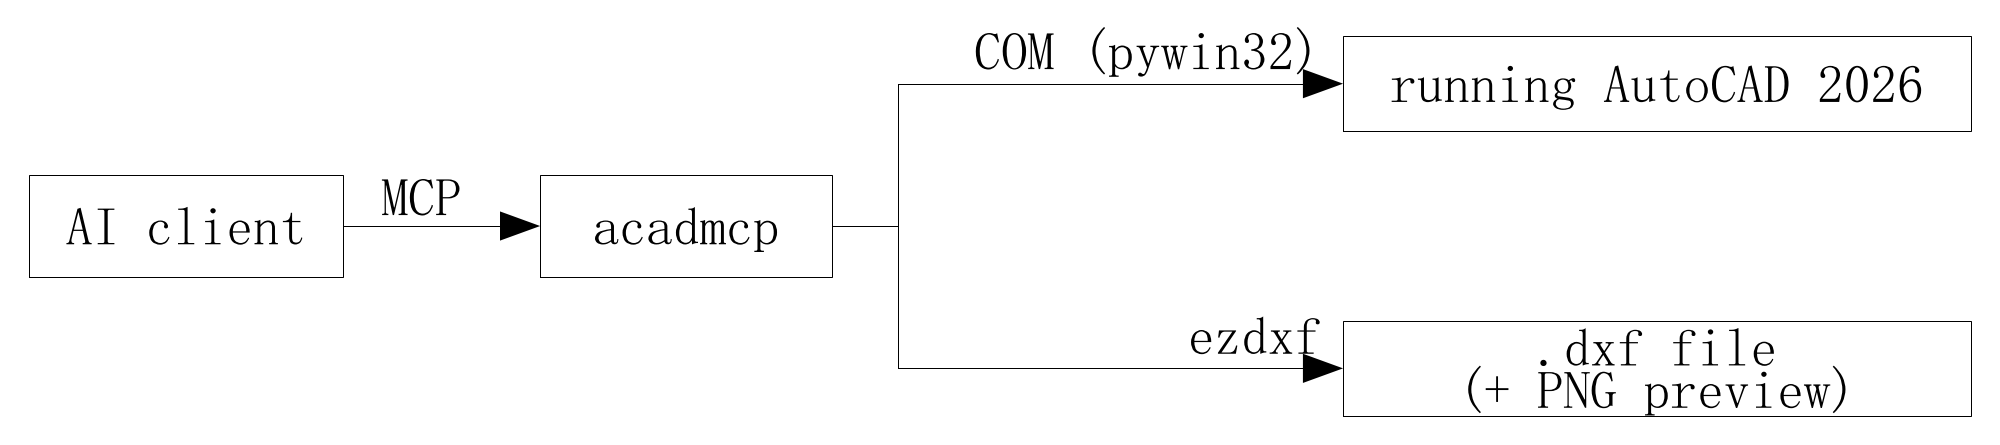
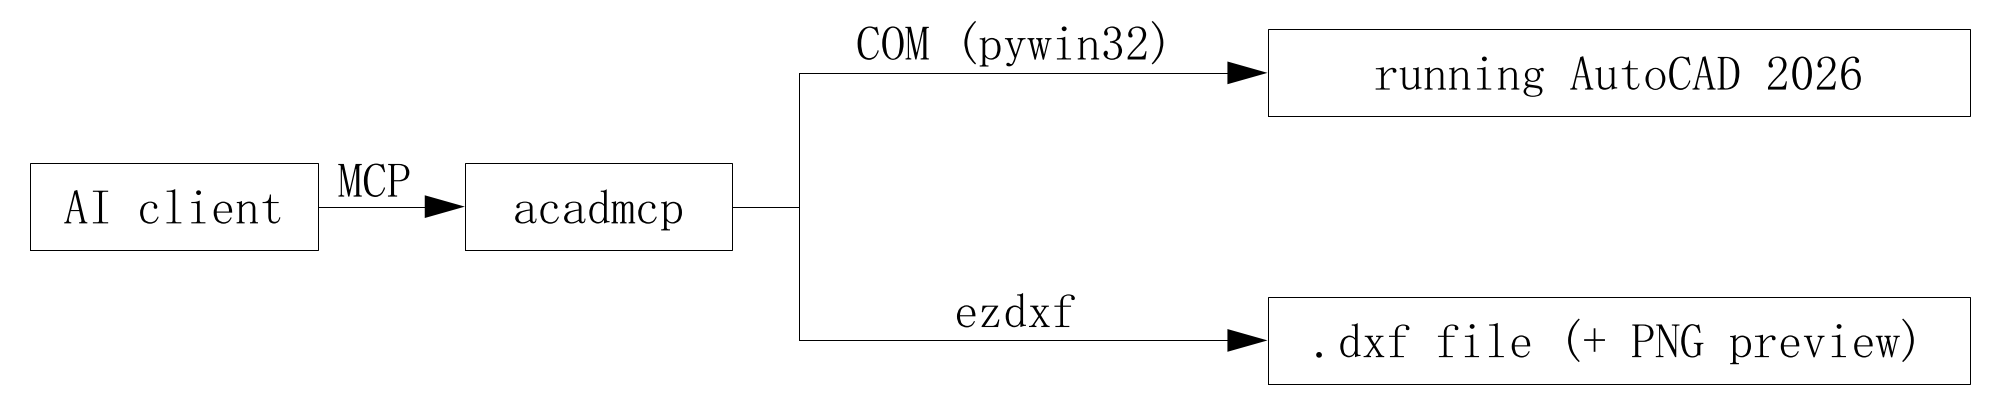
Put the README's diagram on a grid
The first pass read as hand-fitted: two destination boxes of different shapes,
each edge label at its own distance from its line, and COM (pywin32) finishing
flush against the box it points at.

Every label now sits centred above the line it names and 40 mm clear of it, the
two destinations are the same box with one centred line each, and the branches
meet the bracket on the same 400 mm row either side of the main line. Nineteen
entities, verified against the journal.

The README sentence below the figure loses its em dash.

diff --git a/README.md b/README.md
@@ -10,8 +10,8 @@ riser shafts, grids and dimensions — into a **live AutoCAD session** or a
 through COM (pywin32), or writes a .dxf file with a PNG preview through
 ezdxf](docs/flow.png)
 
-The diagram is a drawing like any other — [docs/flow.dxf](docs/flow.dxf), drawn
-with this server, so it opens in AutoCAD and can be edited.
+The diagram is itself a drawing made with this server: [docs/flow.dxf](docs/flow.dxf)
+opens in AutoCAD if it needs changing.
 
 ## Why three backends
 
